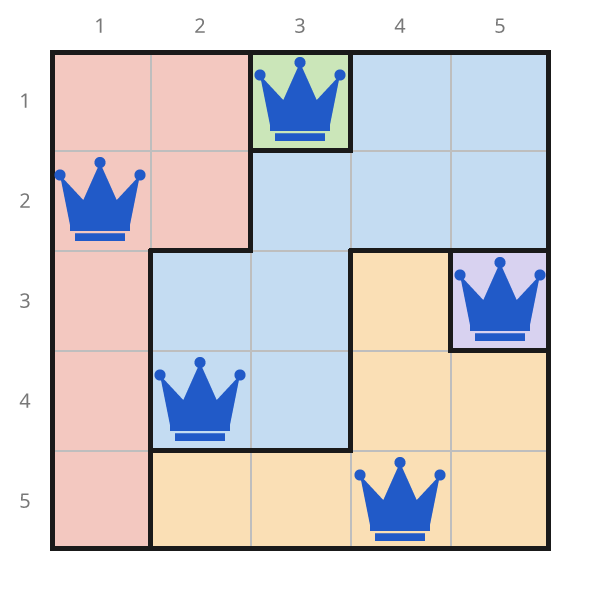
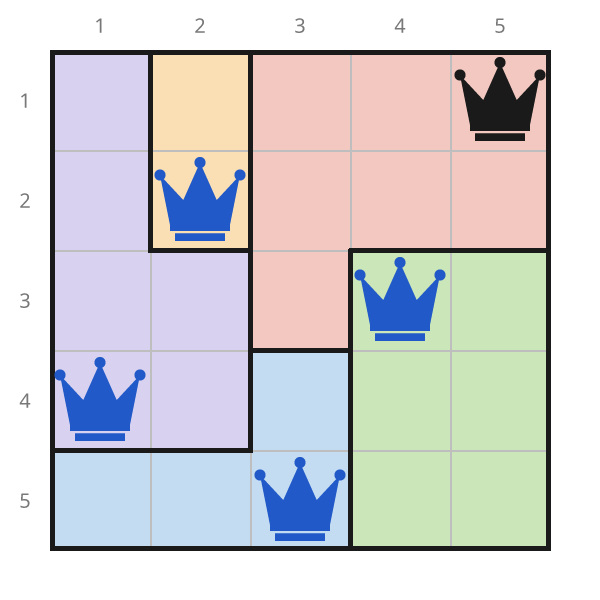
Avoid single-cell regions in Queens authoring
Grow every seed to at least two cells, reject singleton regions and use explicit starters for easy generation. Refresh the gallery while preserving its measured grade ladder, and enforce the authoring rule in tests and skills.

diff --git a/src/csp/fresh.py b/src/csp/fresh.py
@@ -8,6 +8,7 @@ solution and layout. Use these builders when an example needs its own board.
 import itertools
 import random
 import re
+from collections import Counter
 from collections.abc import Callable, Iterable
 
 from csp import battleships, bruteforce
@@ -205,8 +206,9 @@ def _region_text(
 
 
 def _grow(size: int, seeds: list[Cell], rng: random.Random) -> dict[Cell, int]:
-    """Grow one connected region from each seed until the board is covered."""
+    """Give each seed a neighbour before growing the connected regions further."""
     owner = {cell: i for i, cell in enumerate(seeds)}
+    sizes = Counter(owner.values())
     while len(owner) < size * size:
         options = [
             ((r + dr, c + dc), i)
@@ -214,22 +216,35 @@ def _grow(size: int, seeds: list[Cell], rng: random.Random) -> dict[Cell, int]:
             for dr, dc in STEPS
             if 0 <= r + dr < size and 0 <= c + dc < size and (r + dr, c + dc) not in owner
         ]
-        cell, region = rng.choice(options)
+        small = [option for option in options if sizes[option[1]] < 2]
+        cell, region = rng.choice(small or options)
         owner[cell] = region
+        sizes[region] += 1
     return owner
 
 
 def fresh_queens(
-    size: int, rng: random.Random, attempts: int = 4000, comment: str = ""
+    size: int,
+    rng: random.Random,
+    attempts: int = 4000,
+    comment: str = "",
+    *,
+    tier: str = "medium",
 ) -> str | None:
-    """A new Queens board with no givens: regions grown around a hidden placement."""
+    """Grow non-singleton regions; easy boards get one explicit starter queen."""
     for _ in range(attempts):
         cols = list(range(size))
         rng.shuffle(cols)
         if any(abs(cols[i] - cols[i + 1]) < 2 for i in range(size - 1)):
             continue
         owner = _grow(size, [(row, cols[row]) for row in range(size)], rng)
-        text = _region_text("queens", size, owner, [], comment)
+        if min(Counter(owner.values()).values()) < 2:
+            continue
+        extra: list[str] = []
+        if tier == "easy":
+            row = rng.randrange(size)
+            extra = ["Givens:", f"{chr(97 + row)} {_name((row, cols[row]))}"]
+        text = _region_text("queens", size, owner, extra, comment)
         if is_unique(text):
             return text
     return None
@@ -796,7 +811,7 @@ def fresh(
     if family == "akari":
         return fresh_akari(size, rng, tier, comment)
     if family == "queens":
-        return fresh_queens(size, rng, comment=comment)
+        return fresh_queens(size, rng, comment=comment, tier=tier)
     if family == "suguru":
         return fresh_suguru(size, rng, comment=comment)
     if family == "sudoku":

diff --git a/tests/test_queens.py b/tests/test_queens.py
@@ -3,16 +3,17 @@ import pytest
 from csp import bruteforce, cli, queens, report
 from csp.bruteforce import queens as brute
 from csp.core import Kind, Solver
+from csp.puzzle_lab import rate
 from csp.queens import DOG_MARK, PUPPY_MARK, QUEEN_MARK, Cell, compile_puzzle, render
 from tests.examples import example
 
 EXAMPLE = example("queens_1_4x4.txt")
 
 EXPECTED = {
-    "a": Cell(0, 1),
-    "b": Cell(1, 3),
-    "c": Cell(2, 0),
-    "d": Cell(3, 2),
+    "a": Cell(0, 2),
+    "b": Cell(1, 0),
+    "c": Cell(2, 3),
+    "d": Cell(3, 1),
 }
 
 
@@ -71,17 +72,12 @@ def test_zones_may_differ_in_size_but_must_be_connected():
         queens.parse(split)
 
 
-def test_the_first_deduction_places_a_one_cell_zone():
+def test_easy_queens_has_an_explicit_starter_instead_of_one_cell_zones():
     text = (example("queens_2_5x5.txt")).read_text()
     puzzle = queens.parse(text)
-    lone = {region for region, cells in puzzle.cells_by_region.items() if len(cells) == 1}
-    assert lone
-    model, _ = compile_puzzle(text)
-    steps = []
-    Solver(model).solve(on_step=lambda rule, fired: steps.append((rule, fired)))
-    rule, fired = steps[0]
-    assert rule == "single"
-    assert {step.var for step in fired} & lone
+    assert len(puzzle.givens) == 1
+    assert min(map(len, puzzle.cells_by_region.values())) >= 2
+    assert rate(text).grade == "single"
 
 
 def test_queens_default_icon_is_a_queen():

diff --git a/tests/test_puzzle_lab.py b/tests/test_puzzle_lab.py
@@ -155,6 +155,23 @@ def test_fresh_command_writes_a_rated_board(tmp_path, capsys):
     assert "wrote" in capsys.readouterr().out
 
 
+@pytest.mark.parametrize(
+    "size,tier,seed", [(4, "easy", 13804), (5, "easy", 13805), (4, "medium", 138)]
+)
+def test_fresh_queens_have_no_single_cell_regions(size, tier, seed):
+    import random
+
+    from csp import fresh, queens
+
+    text = fresh.fresh("queens", size, random.Random(seed), tier=tier)
+    assert text is not None
+    puzzle = queens.parse(text)
+    assert min(map(len, puzzle.cells_by_region.values())) >= 2
+    assert len(puzzle.givens) == (1 if tier == "easy" else 0)
+    assert fresh.is_unique(text)
+    assert text == fresh.fresh("queens", size, random.Random(seed), tier=tier)
+
+
 def test_fresh_minesweeper_command_writes_a_rated_board(tmp_path, capsys):
     out = tmp_path / "minesweeper.txt"
     args = [

diff --git a/tests/test_picture.py b/tests/test_picture.py
@@ -937,9 +937,9 @@ def test_queens_picture_shows_regions_and_solution():
 
     assert image.size == (5 * CELL, 5 * CELL)
     assert _corner(image, 0, 0) == _corner(image, 1, 0)
-    assert _corner(image, 1, 1) != _corner(image, 1, 2)
-    assert _has(image, 0, 1, picture.SOLVED)
-    crown_x = CELL // 2 + CELL + CELL // 2
+    assert _corner(image, 1, 0) != _corner(image, 1, 1)
+    assert _has(image, 0, 2, picture.SOLVED)
+    crown_x = CELL // 2 + 2 * CELL + CELL // 2
     crown_y = CELL // 2 + CELL // 8
     assert image.getpixel((crown_x, crown_y)) == picture.SOLVED
 

diff --git a/tests/test_example_quality.py b/tests/test_example_quality.py
@@ -29,7 +29,9 @@ def test_gallery_links_and_images_exist(relative):
 @pytest.mark.parametrize("path", QUEENS_FILES, ids=lambda path: path.name)
 def test_queens_examples_use_the_piece_of_their_family(path):
     text = path.read_text()
-    assert queens.parse(text).icon == "queen"
+    puzzle = queens.parse(text)
+    assert puzzle.icon == "queen"
+    assert all(len(cells) >= 2 for cells in puzzle.cells_by_region.values())
     assert path.name.split("_")[0] == family_of(text)
 
 

diff --git a/RELEASE_NOTES.md b/RELEASE_NOTES.md
@@ -5,7 +5,8 @@
 **BREAKING**
 * [#138 Consolidate Queens](https://github.com/operdeck/human-reasoning-puzzles/issues/138): removed DogDoku as a separate family and generator target; `Family: dogdoku` is rejected rather than retained as an alias. Change older files to `Family: queens`; `Icon:` remains an optional cosmetic choice, not a family.
     * The consolidated Queens gallery has six unique boards, numbered by measured difficulty: 4x4/5x5 (`single`), 7x7/8x8 (`subsumption`), 9x9 (`cover2`), and hard 4x4 (`chains`). Removed the overlapping 7x7 and surplus 4x4; regenerated pictures with queens and updated gallery, web/booklet, benchmarks and authoring guidance.
-    * Migration: `dogdoku_1_5x5.txt` → `queens_2_5x5.txt`, `dogdoku_2_7x7.txt` → `queens_3_7x7.txt`, `queens_2_8x8.txt` → `queens_4_8x8.txt`, `dogdoku_3_9x9.txt` → `queens_5_9x9.txt`, `dogdoku_4_4x4.txt` → `queens_6_4x4.txt`. The easy `queens_1_4x4.txt` is unchanged. The former Queens 7x7 was replaced by the `subsumption` board (the 9x9 already covers `cover2`); the surplus `queens_4_4x4.txt` was removed.
+    * Migration: `dogdoku_1_5x5.txt` → `queens_2_5x5.txt`, `dogdoku_2_7x7.txt` → `queens_3_7x7.txt`, `queens_2_8x8.txt` → `queens_4_8x8.txt`, `dogdoku_3_9x9.txt` → `queens_5_9x9.txt`, `dogdoku_4_4x4.txt` → `queens_6_4x4.txt`. The easy `queens_1_4x4.txt` keeps its name. The former Queens 7x7 was replaced by a `subsumption` board (the 9x9 already covers `cover2`); the surplus `queens_4_4x4.txt` was removed.
+    * Follow-up authoring improvement: every Queens region now contains at least two cells. Regenerated the 4x4/5x5/7x7/8x8 boards and expanded the 9x9's singleton; the hard 4x4 already met the rule. The easy boards and 9x9 have one visible given queen each. The fresh builder prioritizes growing each seed to two cells and rejects singletons; gallery and generator regressions enforce the rule without changing the parser's valid input format.
 
 **Licensing**
 * The puzzles in `examples/` are all rights reserved (`examples/LICENSE.md`): no copying without the author's written permission. The rest of the repo stays Apache 2.0. Every `--docx` booklet carries this notice in its footer.

diff --git a/.github/skills/non-murdoku-puzzle-authoring/SKILL.md b/.github/skills/non-murdoku-puzzle-authoring/SKILL.md
@@ -38,8 +38,9 @@ family except Murdoku; Murdoku keeps its own skill and tools.
 
    `--open-share` sets the share of empty Binairo/Tango cells; more open
    cells usually means harder. For Minesweeper, it sets the share of unknown
-   cells, including mines, on the fresh board. Queens and Suguru drop givens
-   while the solution stays unique. Akari builds a fresh wall layout and
+   cells, including mines, on the fresh board. Queens grows connected regions
+   of at least two cells and uses one explicit starter for easy boards.
+   Suguru drops givens while the solution stays unique. Akari builds a fresh wall layout and
    derives numbered-wall clues from a valid bulb placement. Sudoku and
    Futoshiki start from a random Latin square and use `--open-share` for the
    share of empty cells; Futoshiki also drops redundant signs. Calcudoku cuts a
@@ -100,6 +101,17 @@ family except Murdoku; Murdoku keeps its own skill and tools.
    brute-force-only solving.
 
 ## Difficulty and validation
+
+Queens regions must contain at least two cells in published examples and
+freshly authored boards. Single-cell regions give away a placement, regardless
+of the puzzle's final grade. The fresh builder first gives each region a
+neighbour, then grows the rest, and rejects any remaining singleton. Easy
+Queens boards use one explicit starter queen instead. When expanding an
+existing singleton, recheck the donor region's connectivity and uniqueness:
+expansion adds alternative placements, so a visible given may be necessary.
+Re-rate the result, audit it against the rest of the gallery and regenerate
+both puzzle and solution pictures. Do not ban valid singleton syntax from
+the parser: this is an authoring-quality rule, not a change to Queens rules.
 
 When consolidating cosmetic families, compare the actual rules, sizes, region
 layouts and measured deductions, not just names or icons. Keep distinct technique

diff --git a/docs/examples.md b/docs/examples.md
@@ -84,6 +84,11 @@ trivial, and is intentionally excluded. These gaps require stronger
 family-specific deduction or generation support before a harder human-like
 example can be claimed.
 
+Every Queens region has at least two cells. The easy 4 × 4 and 5 × 5 and the
+medium 9 × 9 have one visible given queen each; the other three boards have
+no givens. The starter queens are explicit clues, not single-cell regions
+that silently give away a placement.
+
 ## Rule-focused examples
 
 The standard Sudoku set exercises `single`, `subsumption`, `cover2`, `cover3`, and `chains`. The Queens collection progresses from `single` through `subsumption` and `cover2` to `chains`; the Star Battle examples have irregular regions and grade `cover2` (8 × 8, two stars), `chains` (10 × 10, two stars) and `cover3` (12 × 12, three stars), and a two-star board cannot be smaller than 8 × 8, nor a three-star board smaller than 12 × 12; the logic grids and weighted Kakurasu examples exercise `relations`; the count-oriented examples exercise `count`. Run `--grade` for the exact grade of any individual example.

diff --git a/docs/model-and-puzzle-formats.md b/docs/model-and-puzzle-formats.md
@@ -134,9 +134,14 @@ colour when the board fits the palette, regardless of the piece.
 
 The six gallery boards run from easy 4x4 and 5x5 (`single`), through medium
 7x7 and 8x8 (`subsumption`) and 9x9 (`cover2`), to a hard 4x4 (`chains`).
-A one-cell region fixes its queen immediately. The hard board needs chains,
-not the `what_if` step formerly stated in its comment. All are independently
-unique; the collection audit compares solutions together with their region maps.
+Published and freshly generated Queens boards have at least two cells per
+region: a one-cell region gives away its queen. The easy boards and the 9x9
+use one explicit given queen each; the 7x7, 8x8 and hard 4x4 have no givens.
+`puzzle-lab fresh queens --tier easy` uses one visible starter rather than
+a singleton region, and still checks the requested tier and uniqueness.
+The hard board needs chains, not the `what_if` step formerly stated in its
+comment. All are independently unique; the collection audit compares
+solutions together with their region maps.
 
 ### Tectonic / Suguru
 
